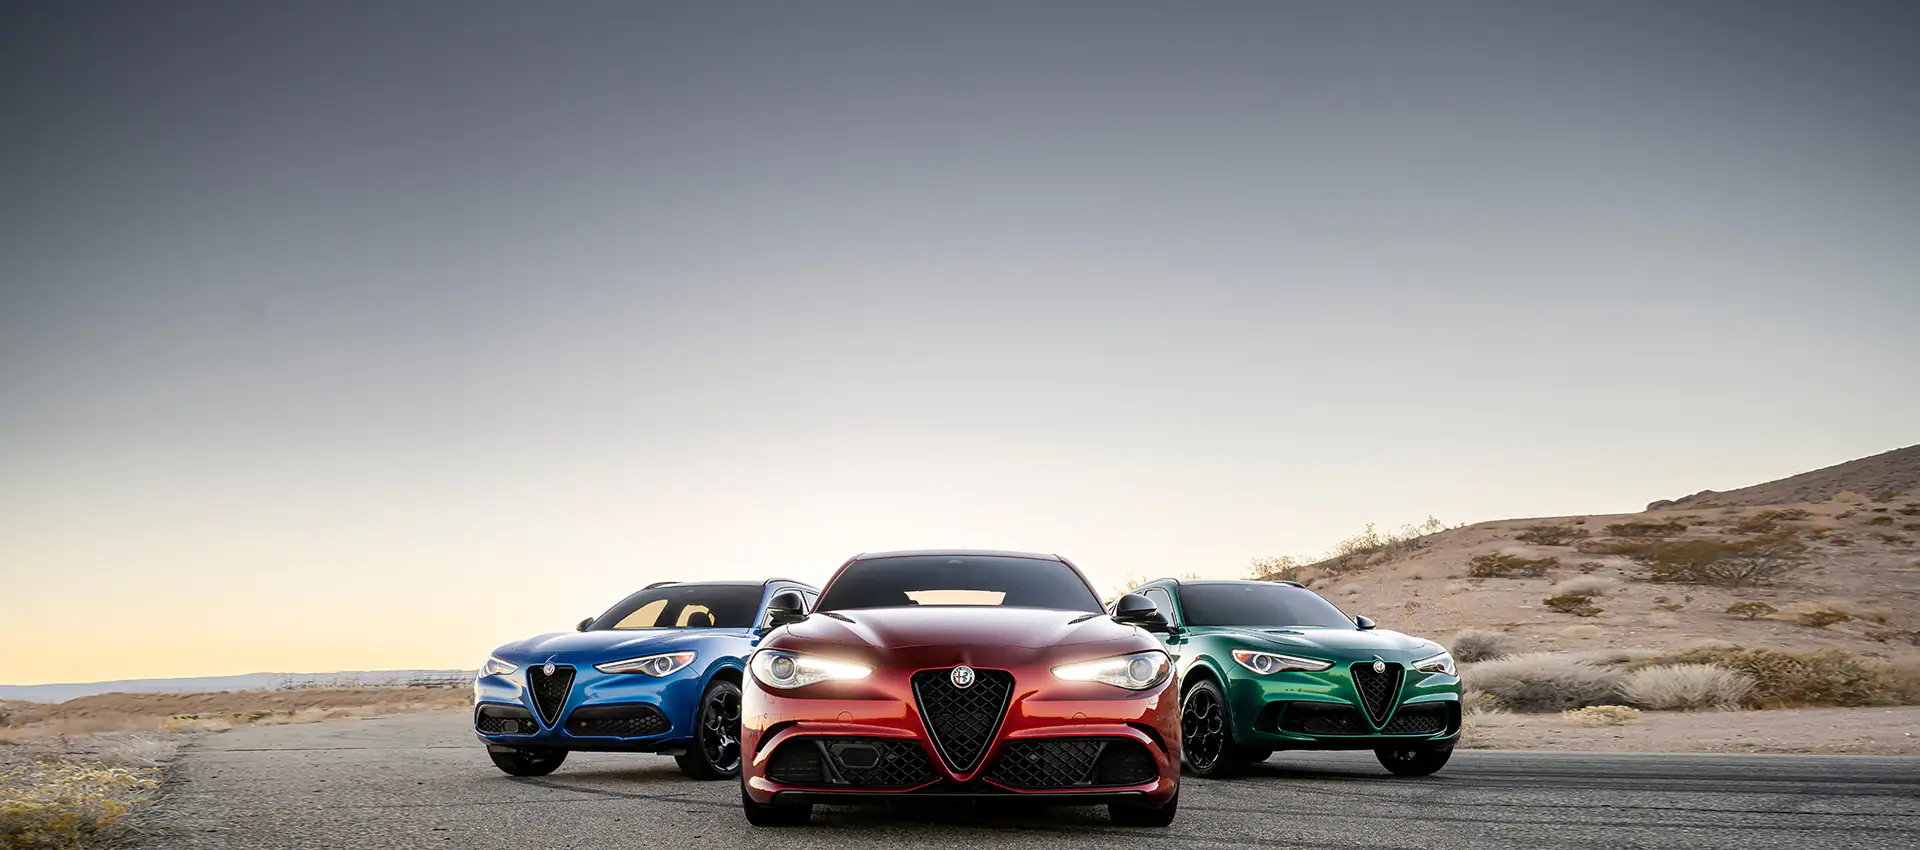
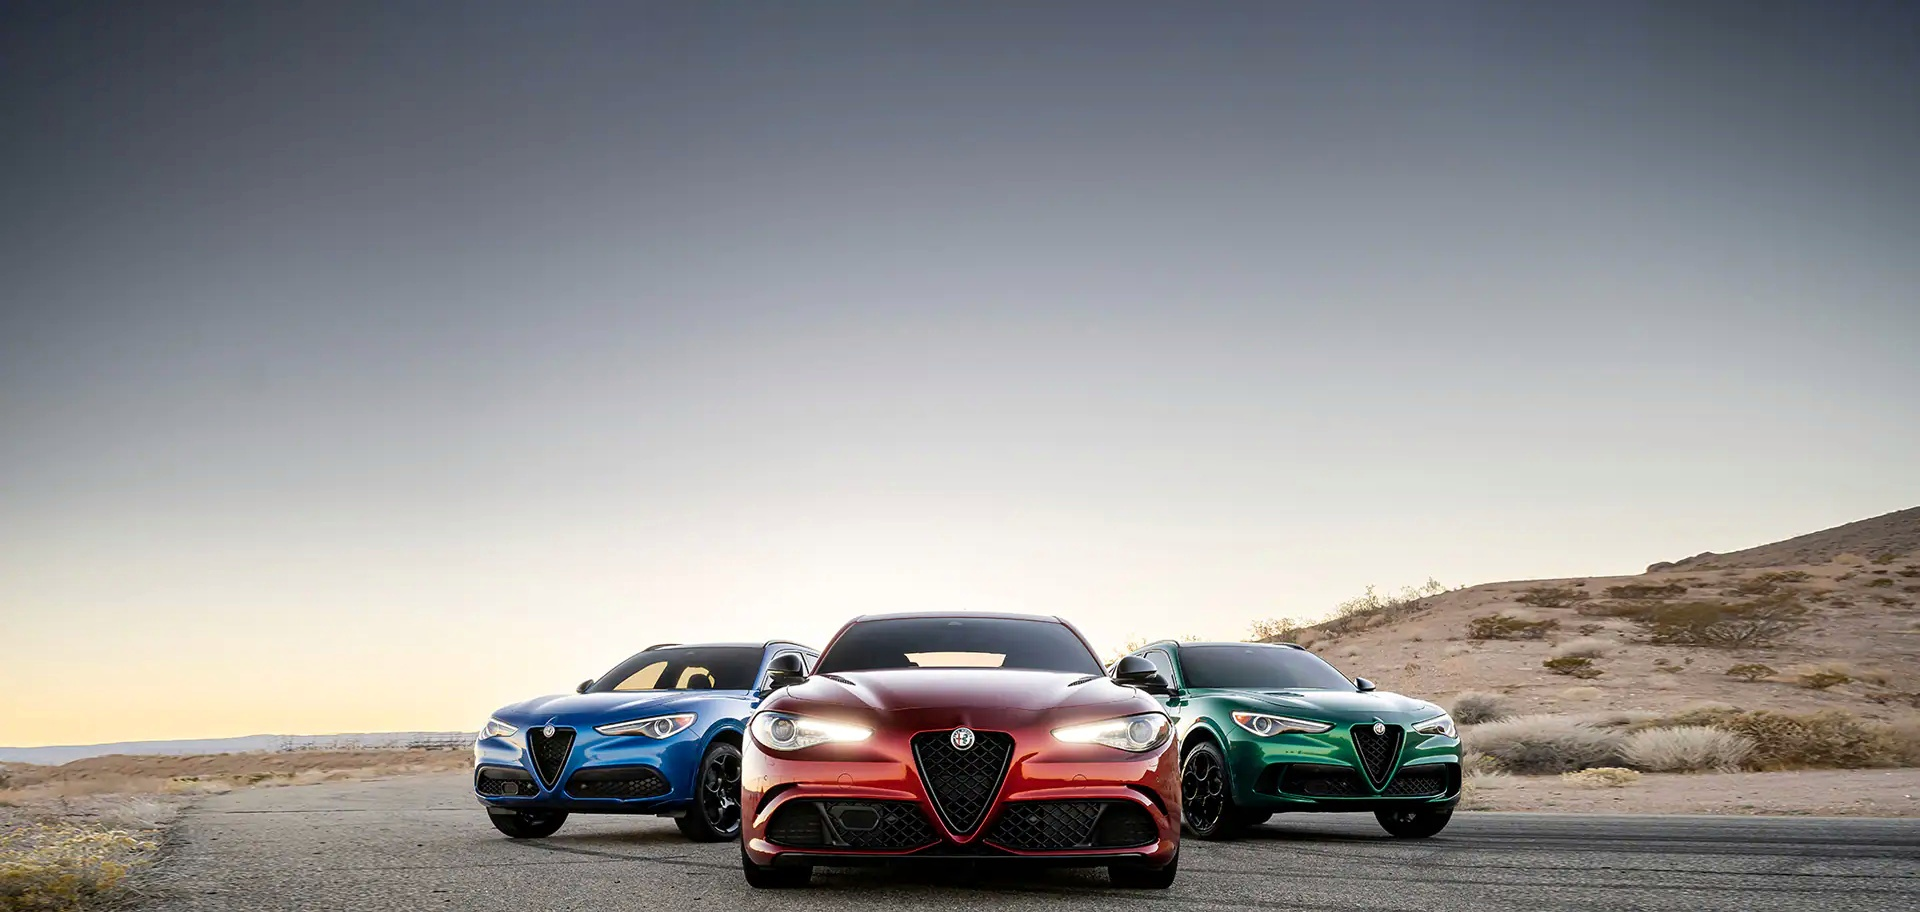
Update

Changed region(s): [[0.0, 0.52, 1.0, 1.0]]

diff --git a/src/main/resources/static/css/MyStyles.css b/src/main/resources/static/css/MyStyles.css
@@ -26,7 +26,7 @@
 
 #showcase {
     background: white;
-    background: url('/images/cars-2.jpg') repeat center center / cover;
+    background: url('/images/alfa-romeos.jpg') repeat center center / cover;
     height: 100vh;
 }
 

diff --git a/src/main/resources/static/css/Faqs.css b/src/main/resources/static/css/Faqs.css
@@ -1,6 +1,6 @@
 body {
     background: white;
-    background: url('/images/cars-2.jpg') repeat center center / cover;
+    background: url('/images/alfa-romeos.jpg') repeat center center / cover;
     height: 100vh;
 }
 
